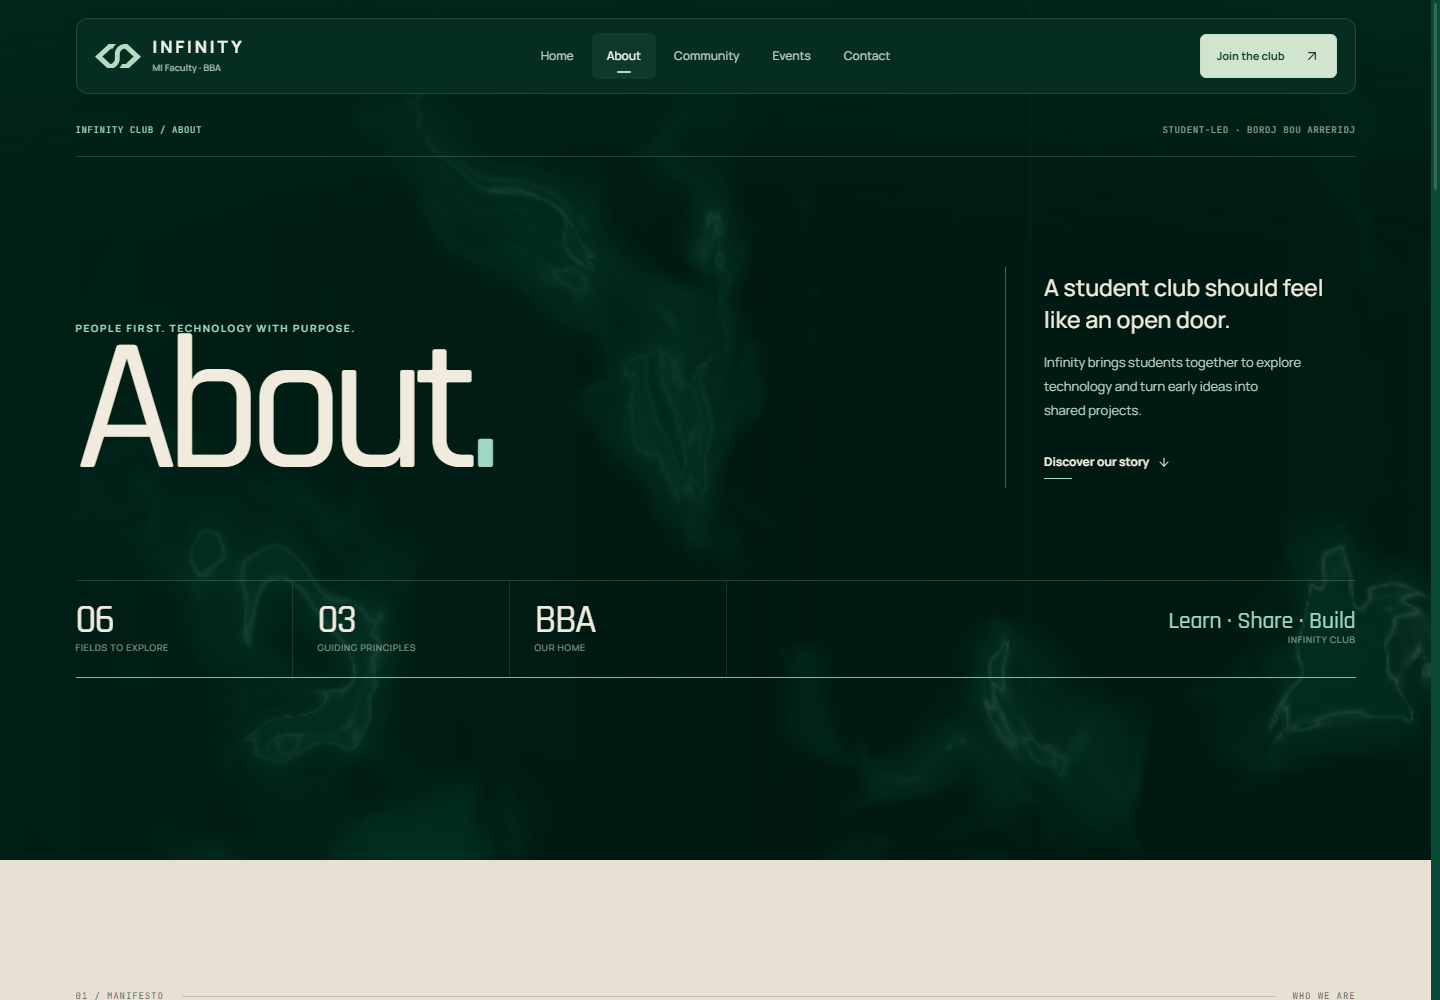
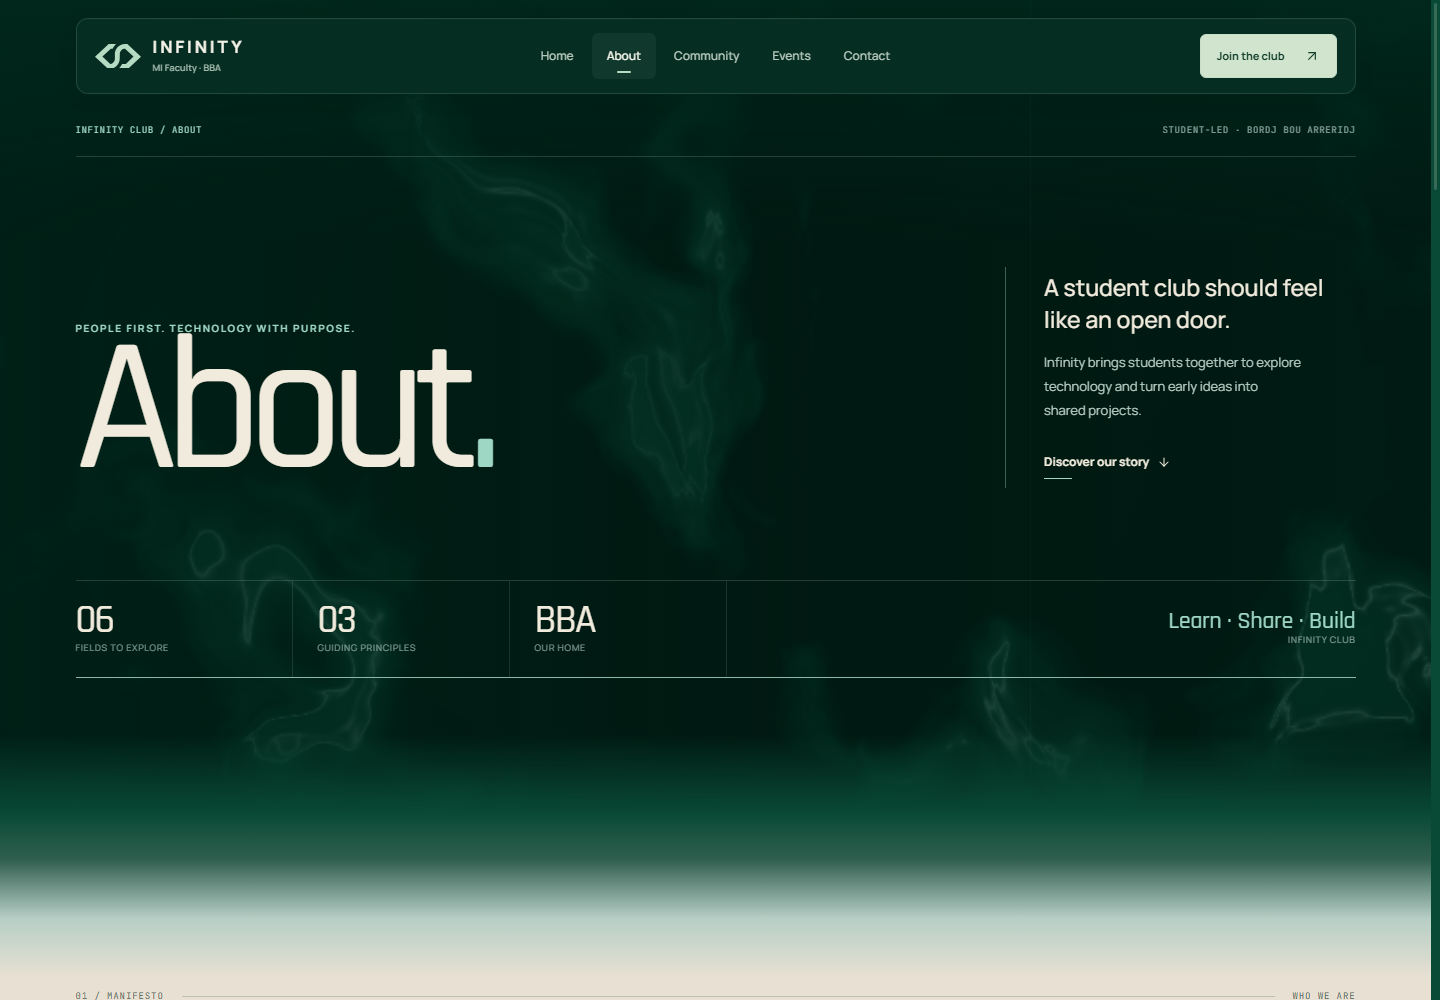
transaction

Changed region(s): [[0.0, 0.775, 1.0, 0.961]]

diff --git a/src/components/page-hero.css b/src/components/page-hero.css
@@ -2,6 +2,8 @@
   --hero-cream: #f1ebdd;
   --hero-muted: #b6cec5;
   --hero-mint: #9ed7c4;
+  --hero-transition-mid: #094a36;
+  --hero-transition-end: #315f4f;
   position: relative;
   isolation: isolate;
   padding-top: 126px;
@@ -10,6 +12,20 @@
   /* Narrow engines (iOS first paint) must never compose the hero sideways:
      clip the section and forbid grid blowout from nowrap SplitText words. */
   overflow: clip;
+}
+.page-hero::after {
+  position: absolute;
+  z-index: 2;
+  inset: auto 0 0;
+  height: clamp(76px, 9vw, 126px);
+  content: '';
+  pointer-events: none;
+  background: linear-gradient(
+    to bottom,
+    rgb(0 42 30 / 0) 0%,
+    var(--hero-transition-mid) 64%,
+    var(--hero-transition-end) 100%
+  );
 }
 .page-hero > .page-container { position: relative; z-index: 3; }
 .page-hero-shader-overlay {
@@ -30,6 +46,10 @@
   background:
     linear-gradient(90deg, rgb(0 42 30 / .48), rgb(0 42 30 / .2) 52%, rgb(0 42 30 / .35)),
     linear-gradient(to bottom, rgb(0 42 30 / .45), transparent 28%);
+}
+.page-hero.community-page-hero {
+  --hero-transition-mid: #07382a;
+  --hero-transition-end: #03271d;
 }
 .page-hero-shader-overlay--events {
   background:
@@ -229,6 +249,7 @@
   .page-hero-summary { margin-top: 6px; }
   .page-hero-jump { margin-top: 8px; }
   .page-hero.page-hero-editorial { min-height: auto; padding-top: 104px; }
+  .page-hero::after { height: 72px; }
   .page-hero.page-hero-editorial::before { display: none; }
   .page-hero-editorial .page-hero-rail { padding-bottom: 14px; font-size: 8px; }
   .page-hero-editorial .page-hero-layout { grid-template-columns: 1fr; gap: 34px; padding-block: 44px 48px; }

diff --git a/src/sections/hero.css b/src/sections/hero.css
@@ -5,6 +5,15 @@
   background: #002a1e;
   color: #f1ebdd;
 }
+.home-hero::after {
+  position: absolute;
+  z-index: 2;
+  inset: auto 0 0;
+  height: clamp(82px, 10vw, 138px);
+  content: '';
+  pointer-events: none;
+  background: linear-gradient(to bottom, rgb(0 42 30 / 0), #06402f 62%, #003828 100%);
+}
 .home-hero[data-hero-mode='pinned'],
 .home-hero[data-hero-mode='flow'] { overflow: visible; z-index: 2; }
 .home-hero[data-hero-mode='pinned'] .home-hero-inner { min-height: 100svh; pointer-events: none; }
@@ -59,6 +68,7 @@
 .home-hero-foot i { display: block; width: 1px; height: 18px; background: #9ed7c4; transform-origin: top; }
 
 @media (max-width: 767px) {
+  .home-hero::after { height: 76px; }
   .home-hero-inner { min-height: min(760px, 94svh); padding-top: 108px; }
   .home-hero-scene { padding-block: 51px 58px; }
   .home-hero h1 { font-size: clamp(55px, 12.3vw, 86px); }

diff --git a/src/pages/about/about.css b/src/pages/about/about.css
@@ -171,8 +171,11 @@
   padding-block: var(--about-space);
   color: var(--about-ink);
   background-color: var(--about-paper);
-  background-image: radial-gradient(rgb(0 42 30 / .065) .65px, transparent .65px);
-  background-size: 6px 6px;
+  background-image:
+    linear-gradient(to bottom, #315f4f 0, #b6cec5 58px, var(--about-paper) 118px, transparent 118px),
+    radial-gradient(rgb(0 42 30 / .065) .65px, transparent .65px);
+  background-repeat: no-repeat, repeat;
+  background-size: 100% 118px, 6px 6px;
 }
 .about-story-layout { display: grid; grid-template-columns: minmax(300px, .82fr) minmax(0, 1.18fr); gap: clamp(48px, 8vw, 126px); align-items: start; margin-top: clamp(48px, 6vw, 82px); }
 .about-story-margin { position: sticky; top: 112px; min-width: 0; }

diff --git a/src/index.css b/src/index.css
@@ -212,7 +212,11 @@ footer .infinity-mark-signal { stroke: #9ed7c4; opacity: .88; }
 .section-intro { display: flex; justify-content: space-between; gap: 32px; align-items: end; margin-bottom: 46px; }
 .section-intro h2 { max-width: 16ch; }
 .section-intro > p { max-width: 40ch; font-size: 13px; line-height: 1.9; color: #b6cec5; }
-.poles-section { background: #003828; }
+.poles-section {
+  background:
+    linear-gradient(to bottom, #003828, #064432 92px, #003828 188px),
+    #003828;
+}
 .poles-stage { transform-origin: center top; }
 .poles-explorer { display: grid; grid-template-columns: 1.05fr 1fr; gap: 64px; align-items: start; }
 .pole-tabs { border-top: 1px solid #638f8050; }

diff --git a/src/pages/events/events.css b/src/pages/events/events.css
@@ -179,8 +179,11 @@
   padding-block: clamp(70px, 8vw, 112px) clamp(84px, 9vw, 132px);
   color: var(--events-ink);
   background-color: var(--events-paper);
-  background-image: radial-gradient(rgb(0 42 30 / .07) .65px, transparent .65px);
-  background-size: 6px 6px;
+  background-image:
+    linear-gradient(to bottom, #315f4f 0, #b6cec5 58px, var(--events-paper) 118px, transparent 118px),
+    radial-gradient(rgb(0 42 30 / .07) .65px, transparent .65px);
+  background-repeat: no-repeat, repeat;
+  background-size: 100% 118px, 6px 6px;
 }
 .events-archive-eyebrow {
   display: flex;

diff --git a/src/pages/contact/contact.css b/src/pages/contact/contact.css
@@ -58,8 +58,11 @@
   padding-block: var(--contact-space) 34px;
   color: var(--contact-ink);
   background-color: var(--contact-paper);
-  background-image: radial-gradient(rgb(0 42 30 / .065) .65px, transparent .65px);
-  background-size: 6px 6px;
+  background-image:
+    linear-gradient(to bottom, #315f4f 0, #b6cec5 58px, var(--contact-paper) 118px, transparent 118px),
+    radial-gradient(rgb(0 42 30 / .065) .65px, transparent .65px);
+  background-repeat: no-repeat, repeat;
+  background-size: 100% 118px, 6px 6px;
 }
 .contact-directory-layout {
   display: grid;

diff --git a/src/pages/community/team-carousel.css b/src/pages/community/team-carousel.css
@@ -10,6 +10,7 @@
   overflow: hidden;
   color: var(--team-cream);
   background:
+    linear-gradient(to bottom, #03271d, rgb(3 39 29 / .72) 52px, transparent 124px),
     radial-gradient(ellipse at 50% 48%, rgb(31 95 72 / .74), transparent 42%),
     radial-gradient(circle at 86% 4%, rgb(216 196 154 / .09), transparent 24%),
     #03271d;
